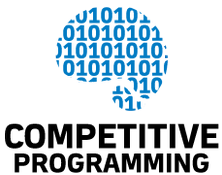
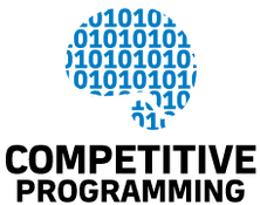
updating images

diff --git a/experience/index.html b/experience/index.html
@@ -17,41 +17,47 @@
   <link rel="stylesheet" type="text/css" href="../css/style.css">
 
   </head>
-  
+
   <body>
 
-  <div id="wrap">
+      <div id="wrap">
+          <nav class="navbar navbar-default navbar-static-top">
+          <div class="container">
+              <div class="navbar-header">
+                  <button type="button" class="navbar-toggle collapsed" data-toggle="collapse" data-target="#navbar" aria-expanded="false" aria-controls="navbar">
+                      <span class="sr-only">Toggle navigation</span>
+                      <span class="icon-bar"></span>
+                      <span class="icon-bar"></span>
+                      <span class="icon-bar"></span>
+                  </button>
+              </div>
+              <div id="navbar" class="navbar-collapse collapse">
+                  <ul class="nav navbar-nav">
+                      <li><a href="../index.html">Home</a></li>
+                      <li><a href="index.html">Experience</a></li>
+                      <li><a href="#projects">Projects</a></li>
+                  </ul>
+                  <ul class="nav navbar-nav navbar-right">
+                      <li><a href="../files/resume.pdf">Resume</a></li>
+                  </ul>
+              </div>
+          </div>
+          </nav>
 
-  <!-- Fixed navbar -->
-    <nav class="navbar navbar-default navbar-fixed-top">
-      <div class="container">
-        <div id="navbar" class="navbar-collapse collapse">
-          <ul class="nav navbar-nav">
-            <li><a href="../index.html">Home</a></li>
-            <li><a href="#about">Projects</a></li>
-          </ul>
-          <ul class="nav navbar-nav navbar-right">
-            <li><a href="../files/resume.pdf">Resume</a></li>
-          </ul>  
-
-        </div>
-      </div>
-    </nav>
-    <div class="jumbotron" id="experience">
+<div class="jumbotron" id="experience">
         <h1> Experience </h1>
     </div>
     <section id="experience">
         <div class="container">
             <div class="row">
                 <div class="col-sm-4">
-                    <a href="#precisionModal" role="button" data-toggle="modal"> <img src="../images/pd-logo.jpg" alt="precision drilling" height="200" width="200"></a>
+                    <a href="#precisionModal" role="button" data-toggle="modal"> <img src="../images/pd-logo.jpg" alt="precision drilling"></a>
                 </div>
                 <div class="col-sm-4">
-                    <a href="#compProgramModal" role="button" data-toggle="modal"><img src="../images/comp-programming.png" alt="competitive programming" height="200" width="252"></a> 
+                    <a href="#compProgramModal" role="button" data-toggle="modal"><img src="../images/comp-programming.png" alt="competitive programming"></a> 
                 </div>
                 <div class="col-sm-4">
-                    <a href="#pscPresident" role="button" data-toggle="modal"><img src="../images/psc-logo.png" alt="problem solving club" height="200" width="260"></a>
-                    
+                    <a href="#pscPresident" role="button" data-toggle="modal"><img src="../images/psc-logo.png" alt="problem solving club"></a>
             </div>
         </div>
     </section>

diff --git a/css/style.css b/css/style.css
@@ -19,9 +19,6 @@ h2{
   letter-spacing: 4px;
 }
 
-#experience.jumbotron{
-    padding-top: 75px;
-}
 
 .jumbotron {
   background-color: #18bc9c;
@@ -53,8 +50,7 @@ h2{
 
 .navbar .navbar-nav li a:hover,
 .navbar .navbar-nav li a:focus,
-.navbar .navbar-nav li a:active,
-.navbar .navbar-nav li a:active{
+.navbar .navbar-nav li a:active {
     color: #18bc9c;
 }
 
